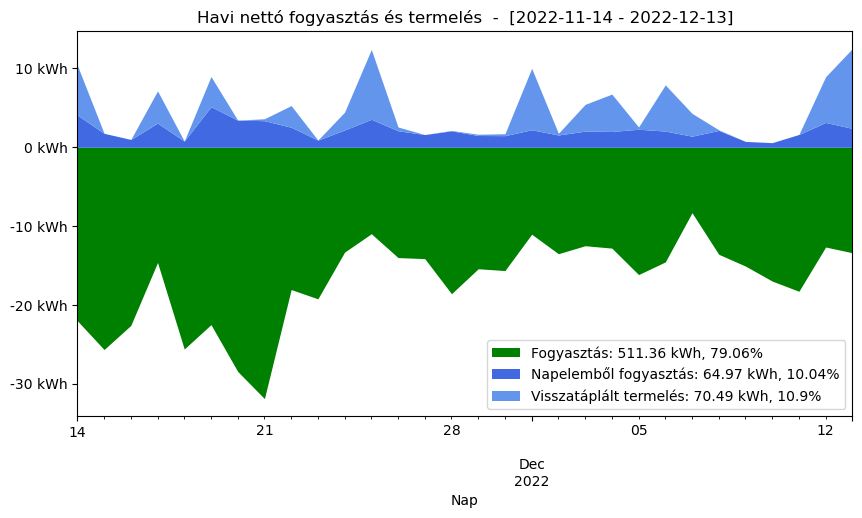
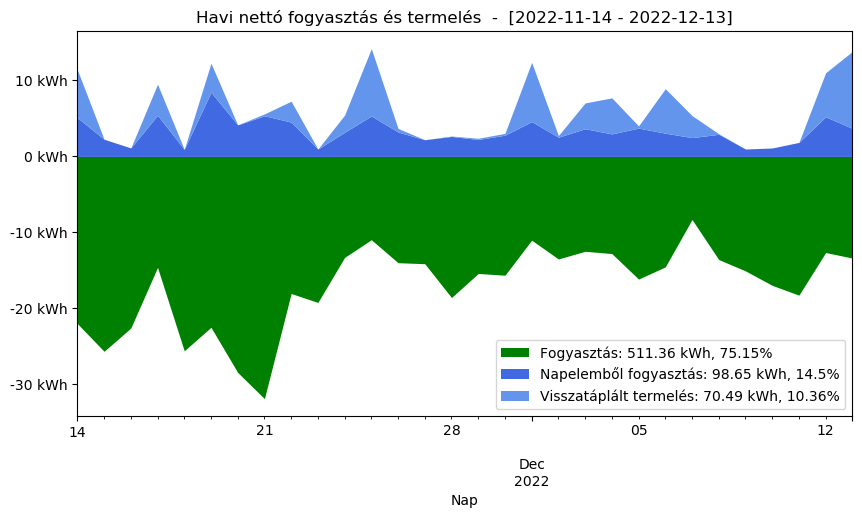
Fix visszatáplálás

diff --git a/szkriptek/kép_havi_nettó_fogyasztás_termelés.py b/szkriptek/kép_havi_nettó_fogyasztás_termelés.py
@@ -14,11 +14,11 @@ ctx = napelem_context.monthly(-1)
 df = ctx.getJoinedDataframe()
 
 dffirst = df.groupby("Nap").first()
-dffirst = dffirst[['Összes nettó fogyasztás', 'Összes nettó termelés', 'Összes napelem fogyasztás']].reset_index() \
-    .rename(columns = {'Összes nettó fogyasztás': 'Összes fogyasztás kezdet', 'Összes nettó termelés': 'Összes termelés kezdet', 'Összes napelem fogyasztás': 'Összes napelem fogyasztás kezdet'})
+dffirst = dffirst[['Összes nettó fogyasztás', 'Összes nettó termelés', 'Összes nettó napelem fogyasztás']].reset_index() \
+    .rename(columns = {'Összes nettó fogyasztás': 'Összes fogyasztás kezdet', 'Összes nettó termelés': 'Összes termelés kezdet', 'Összes nettó napelem fogyasztás': 'Összes napelem fogyasztás kezdet'})
 dflast = df.groupby("Nap").last()
-dflast = dflast[['Összes nettó fogyasztás', 'Összes nettó termelés', 'Összes napelem fogyasztás']].reset_index() \
-    .rename(columns = {'Összes nettó fogyasztás': 'Összes fogyasztás vég', 'Összes nettó termelés': 'Összes termelés vég', 'Összes napelem fogyasztás': 'Összes napelem fogyasztás vég'})
+dflast = dflast[['Összes nettó fogyasztás', 'Összes nettó termelés', 'Összes nettó napelem fogyasztás']].reset_index() \
+    .rename(columns = {'Összes nettó fogyasztás': 'Összes fogyasztás vég', 'Összes nettó termelés': 'Összes termelés vég', 'Összes nettó napelem fogyasztás': 'Összes napelem fogyasztás vég'})
 
 df = pd.merge(dffirst, dflast, left_on = 'Nap', right_on = 'Nap')
 
